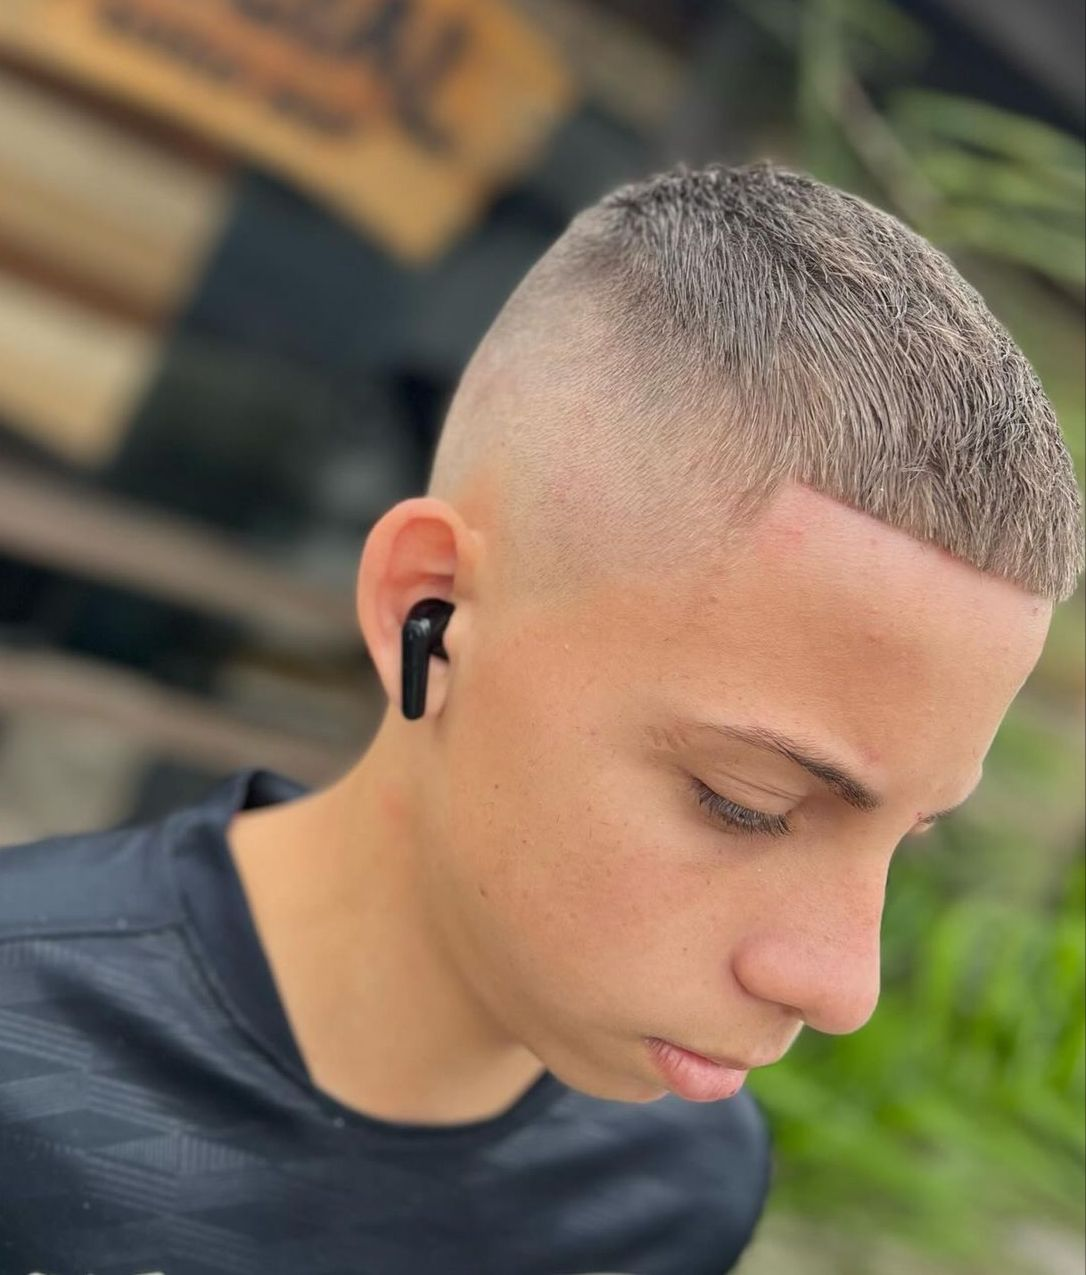
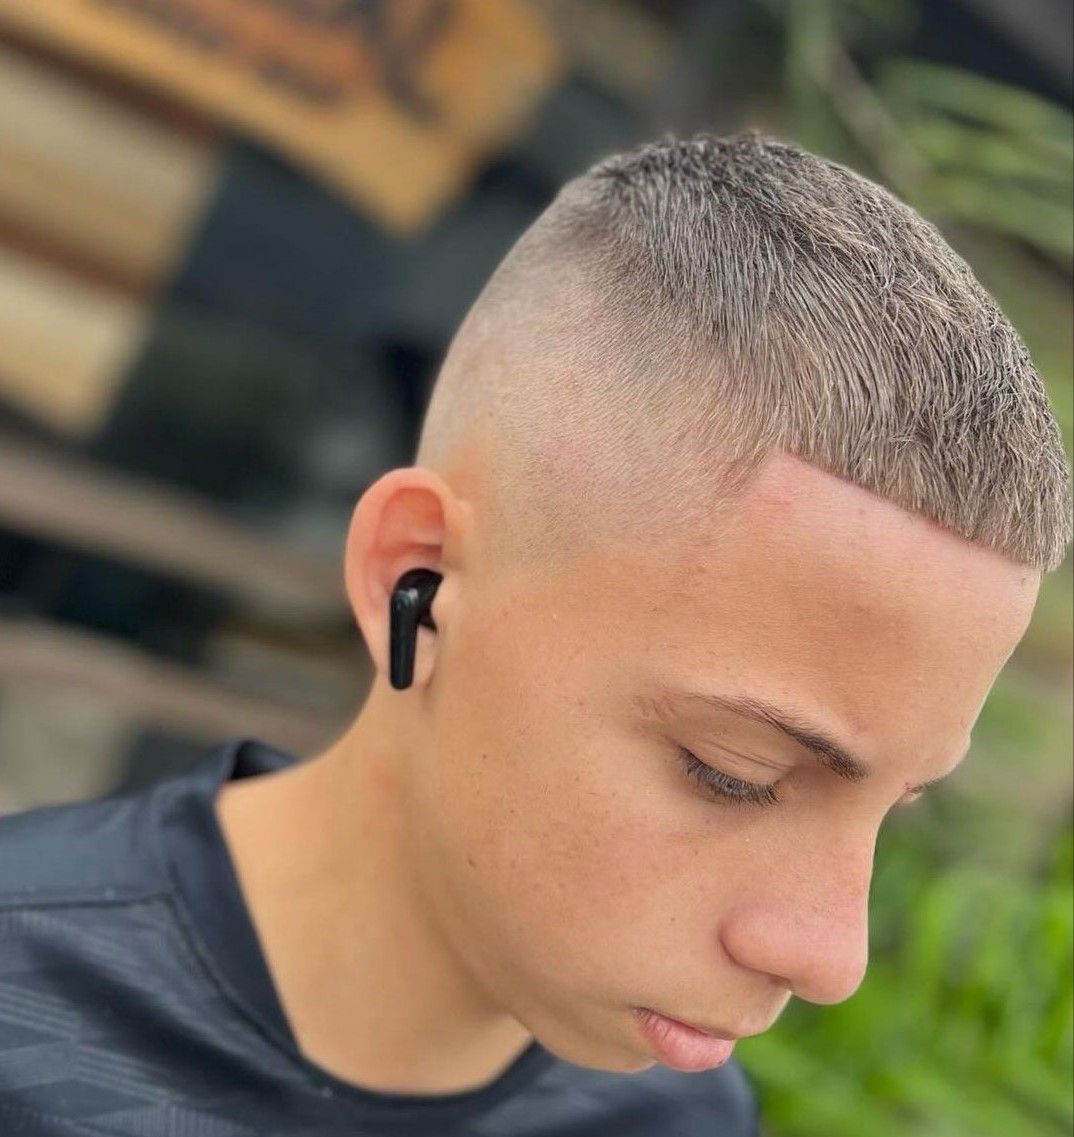
Adicionando mais um serviço

diff --git a/index.html b/index.html
@@ -186,6 +186,22 @@
                         </div>
                     </article>
 
+                    <article class="hover_servicos">
+
+                        <span class="appIcone icon icon-star-3 teste"></span>
+                        <a href="#" class="appTitulo teste2" title="degrade"> Degradê</a>
+
+                        <div class="hoverMascara">
+                            <div class="hover_servicos_hover"></div>
+                            <img class="appFoto" src="/img/degrade.jpg">
+                        </div>
+
+                        <div class="descricao">
+                            <h4>Degradê</h4>
+
+                        </div>
+                    </article>
+
 
                     <article class="hover_servicos">
 
